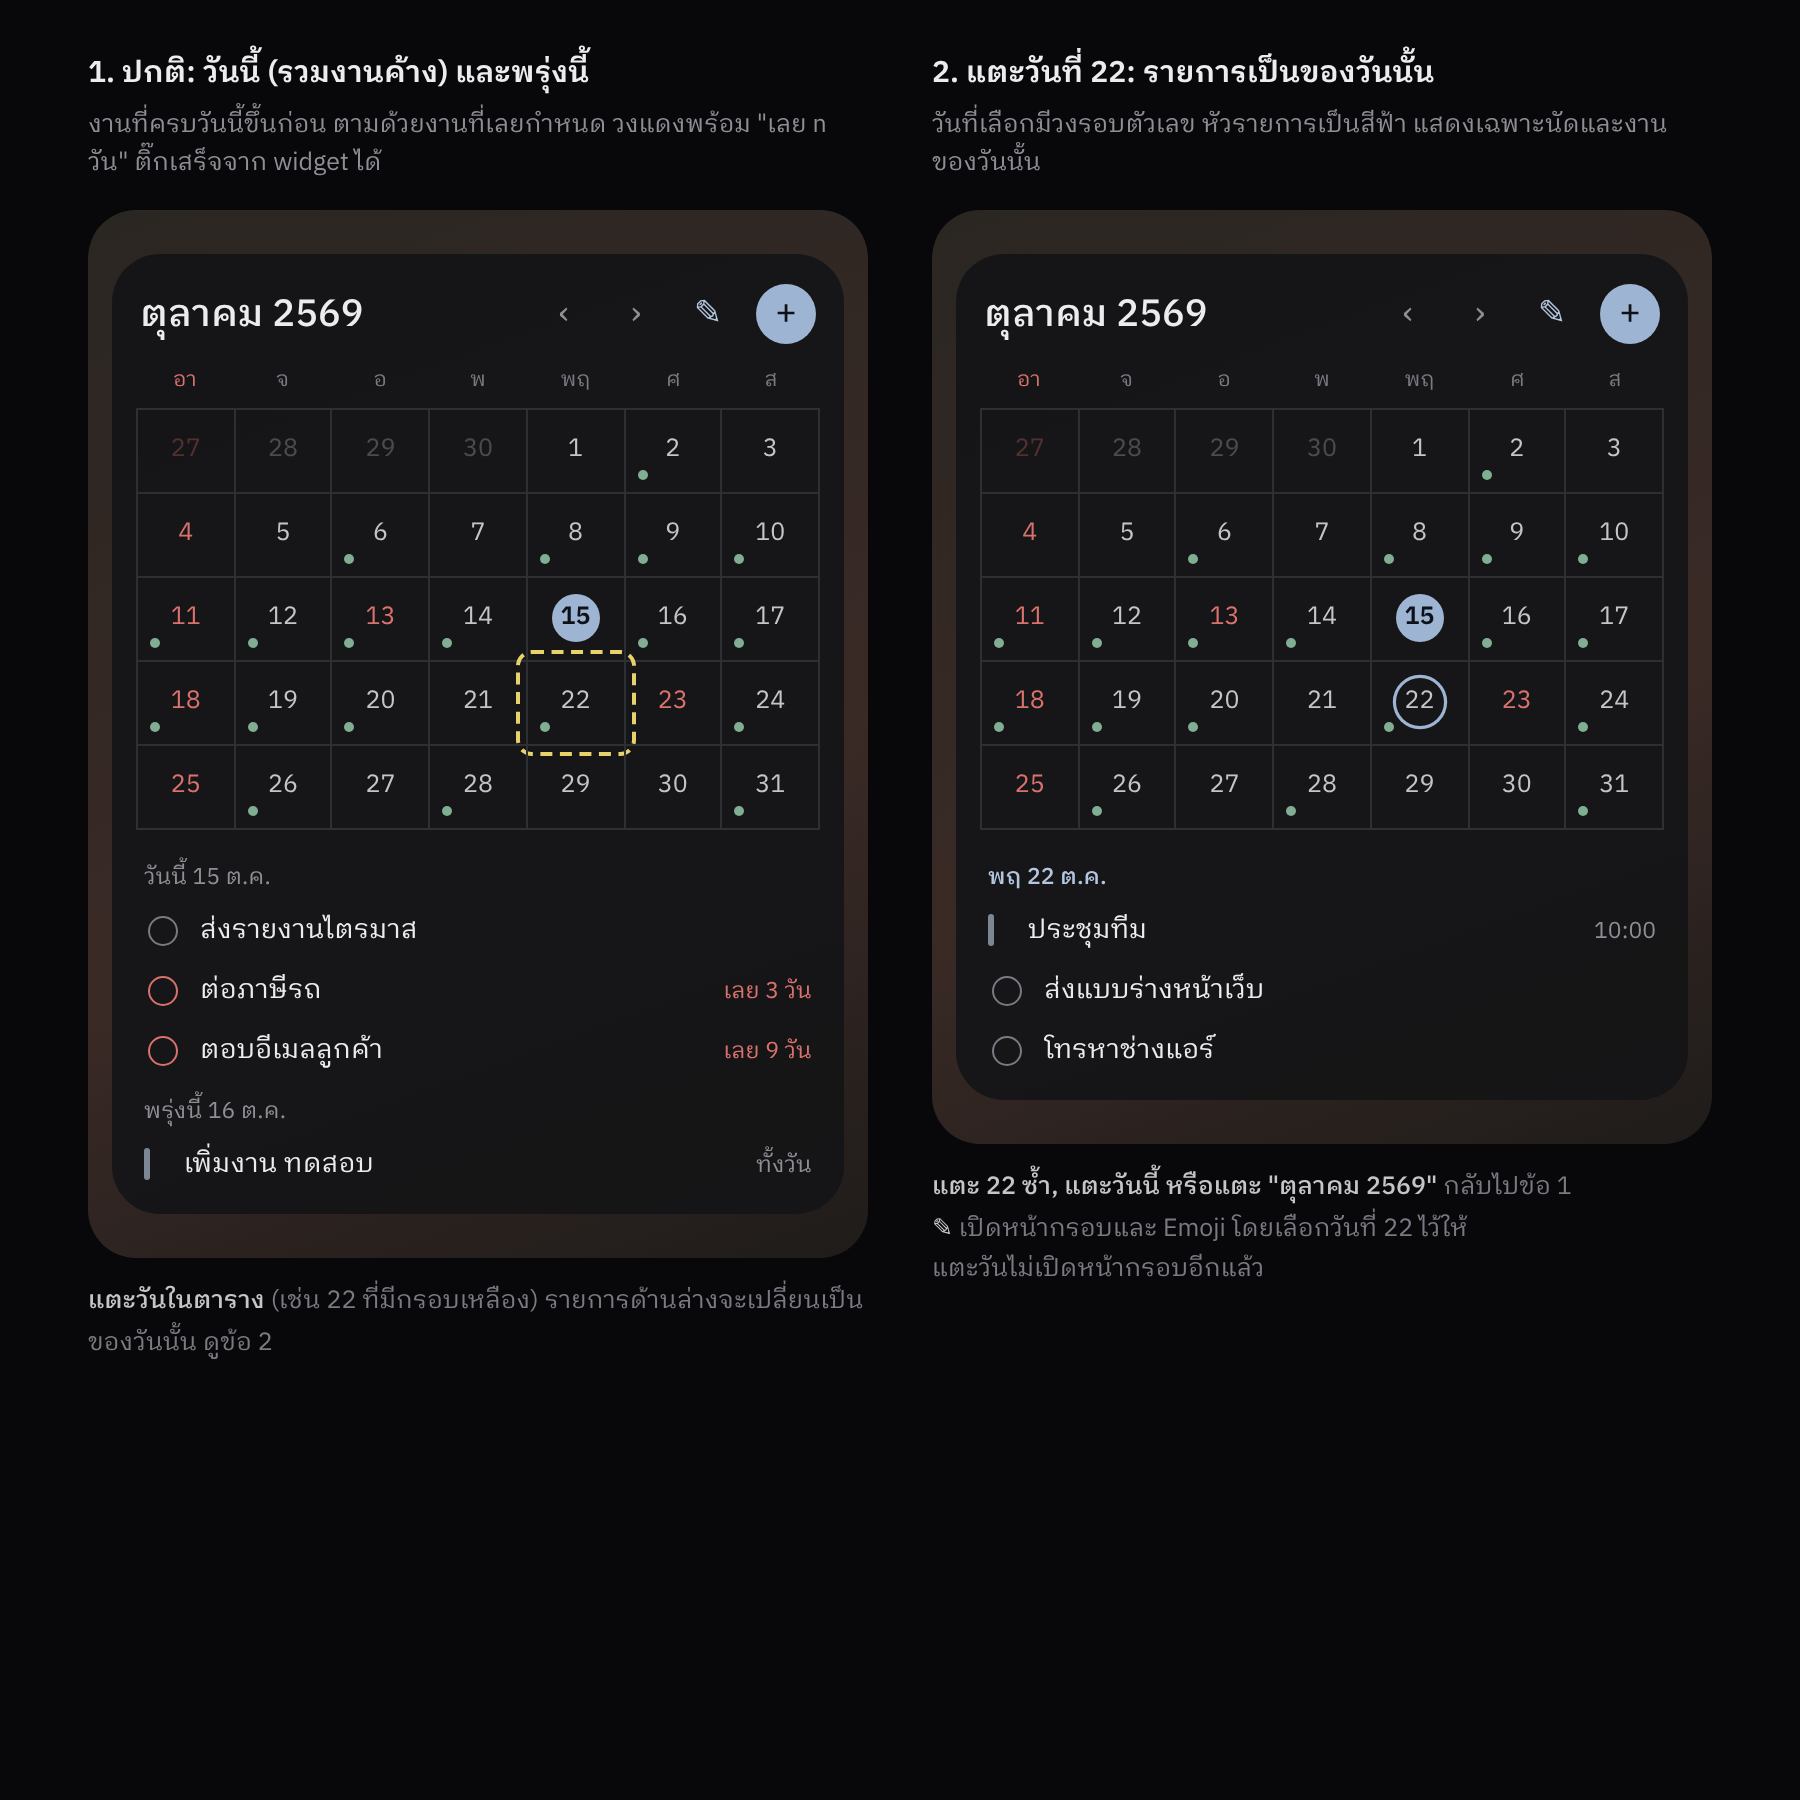
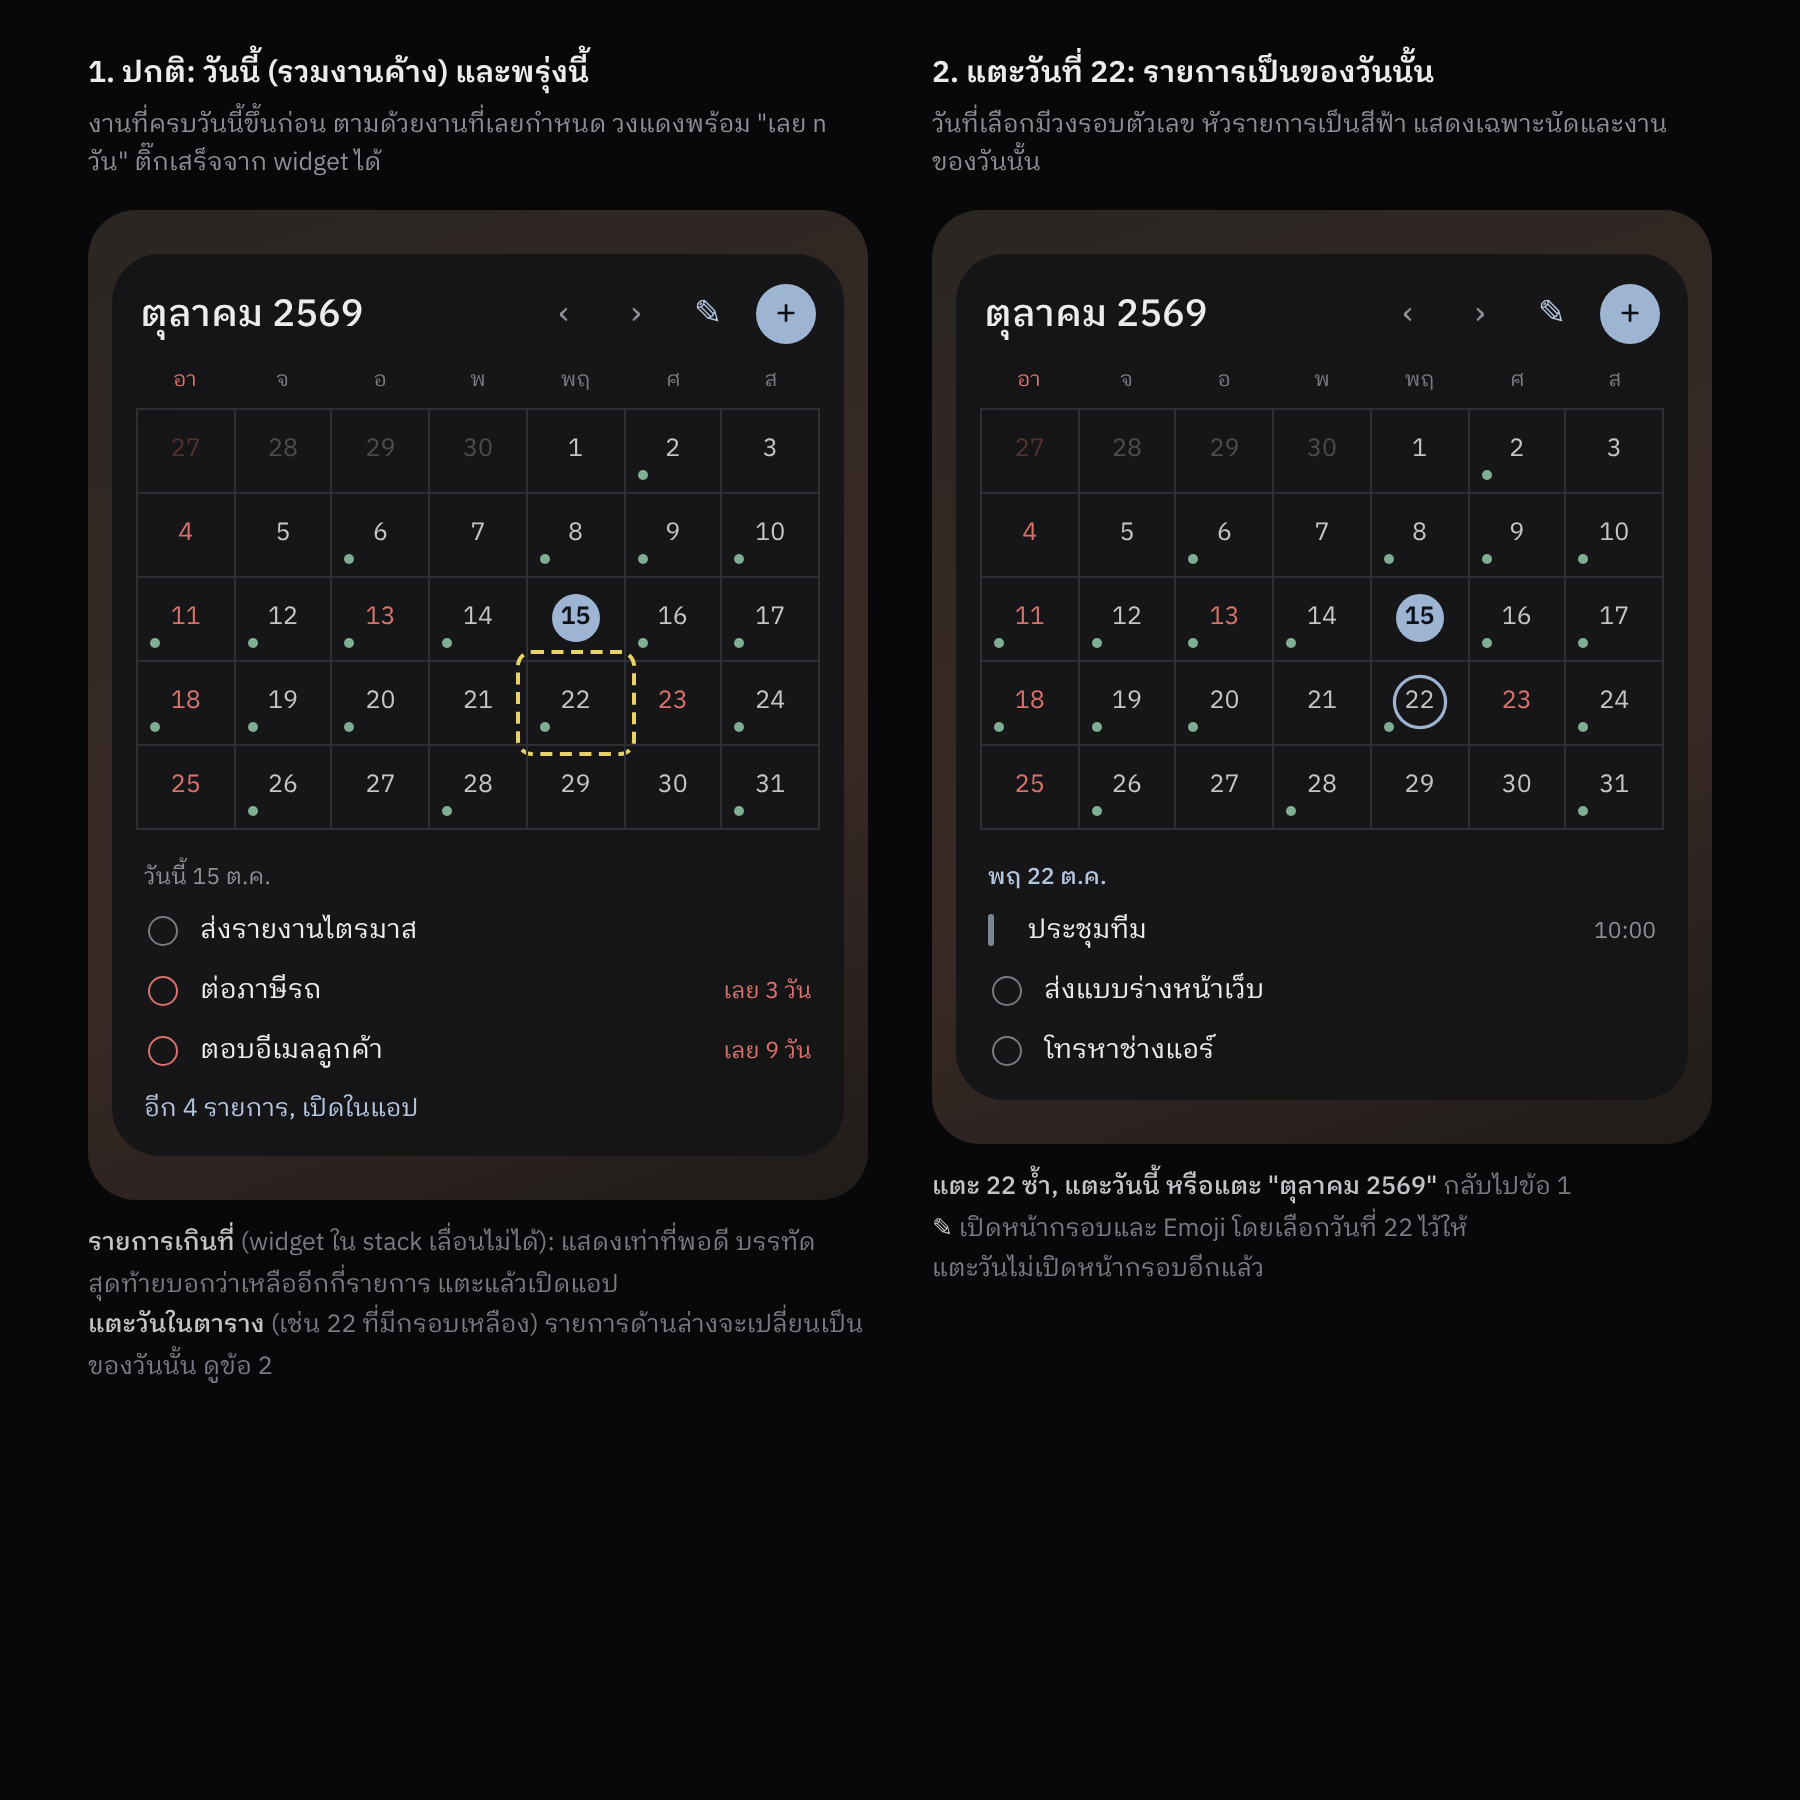
Month widget: the list shows what fits, then how many are left
A widget in a stack cannot scroll, so the list under the grid now shows only the rows
that fit; when there are more, the last line says how many and opens the app.

Claude-Session: https://claude.ai/code/session_014rcy6HkxcxLuiPbBrk9EMZ

Changed region(s): [[0.0311, 0.5911, 0.4978, 0.7778]]

diff --git a/docs/mockup-month-widget-daytap.html b/docs/mockup-month-widget-daytap.html
@@ -33,6 +33,7 @@ h2{font-size:15px;font-weight:600;margin:0 0 4px}
 .it small{font-size:11.5px;color:var(--muted)}.it small.late{color:var(--red)}
 .m{width:3px;height:16px;border-radius:2px;background:var(--teal);margin:0 8px 0 0}
 .ck{width:15px;height:15px;border-radius:50%;border:1.6px solid var(--faint);margin:0 2px}.ck.late{border-color:var(--red)}
+.more{font-size:12.5px;color:var(--accentText);height:28px;display:flex;align-items:center}
 .tap{position:absolute;inset:-6px;border:2px dashed #e8d36a;border-radius:8px}
 </style></head><body>
 <div class="grid">
@@ -40,7 +41,7 @@ h2{font-size:15px;font-weight:600;margin:0 0 4px}
 <h2>1. ปกติ: วันนี้ (รวมงานค้าง) และพรุ่งนี้</h2>
 <p class="what">งานที่ครบวันนี้ขึ้นก่อน ตามด้วยงานที่เลยกำหนด วงแดงพร้อม "เลย n วัน" ติ๊กเสร็จจาก widget ได้</p>
 <div class="home"><div class="w" id="A"></div></div>
-<p class="note"><b>แตะวันในตาราง</b> (เช่น 22 ที่มีกรอบเหลือง) รายการด้านล่างจะเปลี่ยนเป็นของวันนั้น ดูข้อ 2</p>
+<p class="note"><b>รายการเกินที่</b> (widget ใน stack เลื่อนไม่ได้): แสดงเท่าที่พอดี บรรทัดสุดท้ายบอกว่าเหลืออีกกี่รายการ แตะแล้วเปิดแอป<br><b>แตะวันในตาราง</b> (เช่น 22 ที่มีกรอบเหลือง) รายการด้านล่างจะเปลี่ยนเป็นของวันนั้น ดูข้อ 2</p>
 </div>
 <div class="col">
 <h2>2. แตะวันที่ 22: รายการเป็นของวันนั้น</h2>
@@ -61,7 +62,7 @@ function cal(el,sel,tapHint,agenda){
 const ev=(t,time)=>`<div class="it"><span class="m"></span><span class="g">${t}</span><small>${time}</small></div>`;
 const task=(t,late)=>`<div class="it"><span class="ck${late?' late':''}"></span><span class="g">${t}</span>${late?`<small class="late">เลย ${late} วัน</small>`:''}</div>`;
 cal(document.getElementById("A"),0,true,
- `<div class="day">วันนี้ 15 ต.ค.</div>${task("ส่งรายงานไตรมาส")}${task("ต่อภาษีรถ",3)}${task("ตอบอีเมลลูกค้า",9)}<div class="day">พรุ่งนี้ 16 ต.ค.</div>${ev("เพิ่มงาน ทดสอบ","ทั้งวัน")}`);
+ `<div class="day">วันนี้ 15 ต.ค.</div>${task("ส่งรายงานไตรมาส")}${task("ต่อภาษีรถ",3)}${task("ตอบอีเมลลูกค้า",9)}<div class="more">อีก 4 รายการ, เปิดในแอป</div>`);
 cal(document.getElementById("B"),22,false,
  `<div class="day on">พฤ 22 ต.ค.</div>${ev("ประชุมทีม","10:00")}${task("ส่งแบบร่างหน้าเว็บ")}${task("โทรหาช่างแอร์")}`);
 </script>

diff --git a/app/src/main/java/app/omnitask/widget/MonthWidget.kt b/app/src/main/java/app/omnitask/widget/MonthWidget.kt
@@ -257,7 +257,7 @@ private fun MonthContent(context: Context, data: MonthData) {
         }
         if (showAgenda) {
             Spacer(GlanceModifier.height(8.dp))
-            Agenda(context, data)
+            Agenda(context, data, room - rows * cell - 8f)
         }
     }
 }
@@ -290,15 +290,32 @@ private fun IconButton(icon: Int, description: String, tint: ColorProvider, acti
 }
 
 @Composable
-private fun Agenda(context: Context, data: MonthData) {
+private fun Agenda(context: Context, data: MonthData, heightDp: Float) {
+    // A widget in a stack cannot scroll: the list shows what fits, and the last line says how much is left and opens
+    // the app. Heights are what each row takes, a little generous so nothing is cut at the bottom.
+    class Line(val height: Float, val entry: Boolean, val content: @Composable () -> Unit)
+    val lines = ArrayList<Line>()
+    data.agenda.forEachIndexed { index, (day, items) ->
+        lines += Line(if (index > 0) 26f else 20f, false) { DayHead(data, day, index > 0) }
+        data.holidays[day]?.let { name -> lines += Line(20f, false) { Label(name, cp { it.red }, 12.5.sp, modifier = GlanceModifier.padding(start = 4.dp, bottom = 2.dp)) } }
+        if (items.isEmpty() && data.holidays[day] == null) {
+            lines += Line(22f, false) { Label(tr("ว่าง", "Nothing planned"), cp { it.faint }, 12.5.sp, modifier = GlanceModifier.padding(start = 4.dp, bottom = 4.dp)) }
+        }
+        items.forEach { entry -> lines += Line(30f, true) { AgendaLine(context, entry) } }
+    }
+    // Everything fits, or as much as fits above the "more" line.
+    val budget = if (lines.sumOf { it.height.toDouble() } <= heightDp) heightDp else heightDp - 28f
+    var used = 0f
+    var shownLines = lines.takeWhile { used += it.height; used <= budget }
+    // A day's heading with nothing shown under it goes too; the "more" line covers it.
+    if (shownLines.size < lines.size) shownLines = shownLines.dropLastWhile { !it.entry }
+    val left = lines.count { it.entry } - shownLines.count { it.entry }
     LazyColumn(GlanceModifier.fillMaxSize()) {
-        data.agenda.forEachIndexed { index, (day, items) ->
-            item { DayHead(data, day, index > 0) }
-            data.holidays[day]?.let { name -> item { Label(name, cp { it.red }, 12.5.sp, modifier = GlanceModifier.padding(start = 4.dp, bottom = 2.dp)) } }
-            if (items.isEmpty() && data.holidays[day] == null) {
-                item { Label(tr("ว่าง", "Nothing planned"), cp { it.faint }, 12.5.sp, modifier = GlanceModifier.padding(start = 4.dp, bottom = 4.dp)) }
+        shownLines.forEach { line -> item { line.content() } }
+        if (left > 0) item {
+            Row(GlanceModifier.fillMaxWidth().height(28.dp).padding(horizontal = 4.dp).clickable(open(context)), verticalAlignment = Alignment.CenterVertically) {
+                Label(tr("อีก $left รายการ, เปิดในแอป", "$left more, open the app"), cp { it.accentText }, 12.5.sp)
             }
-            items.forEach { entry -> item { AgendaLine(context, entry) } }
         }
     }
 }
